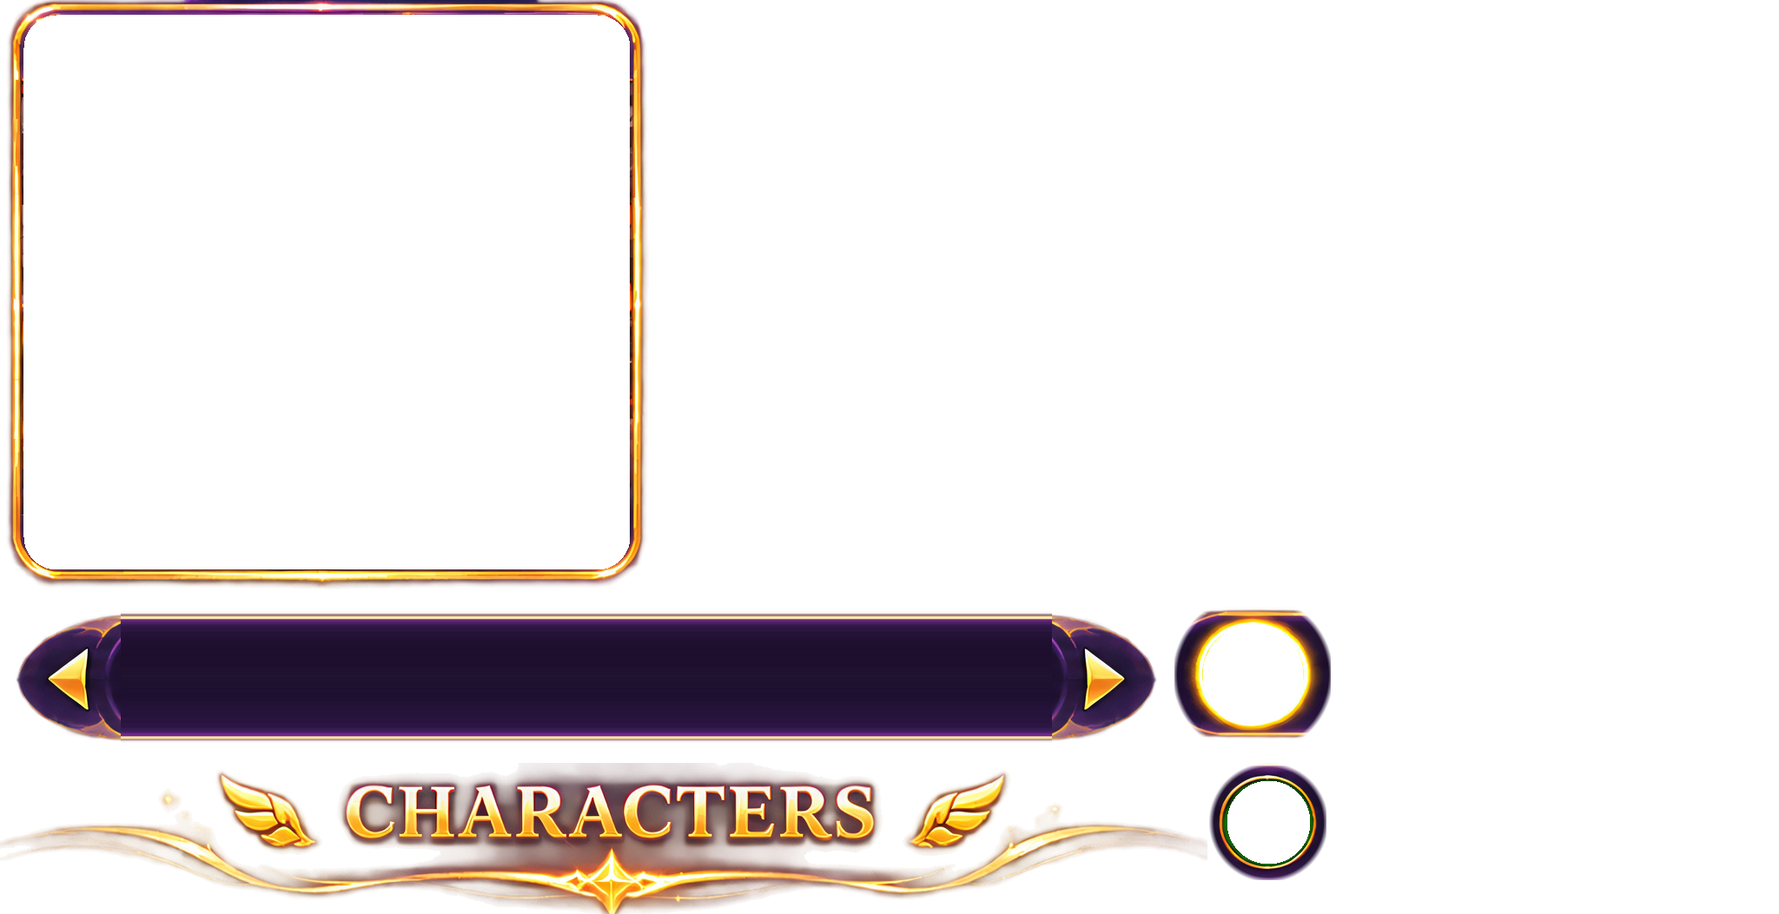
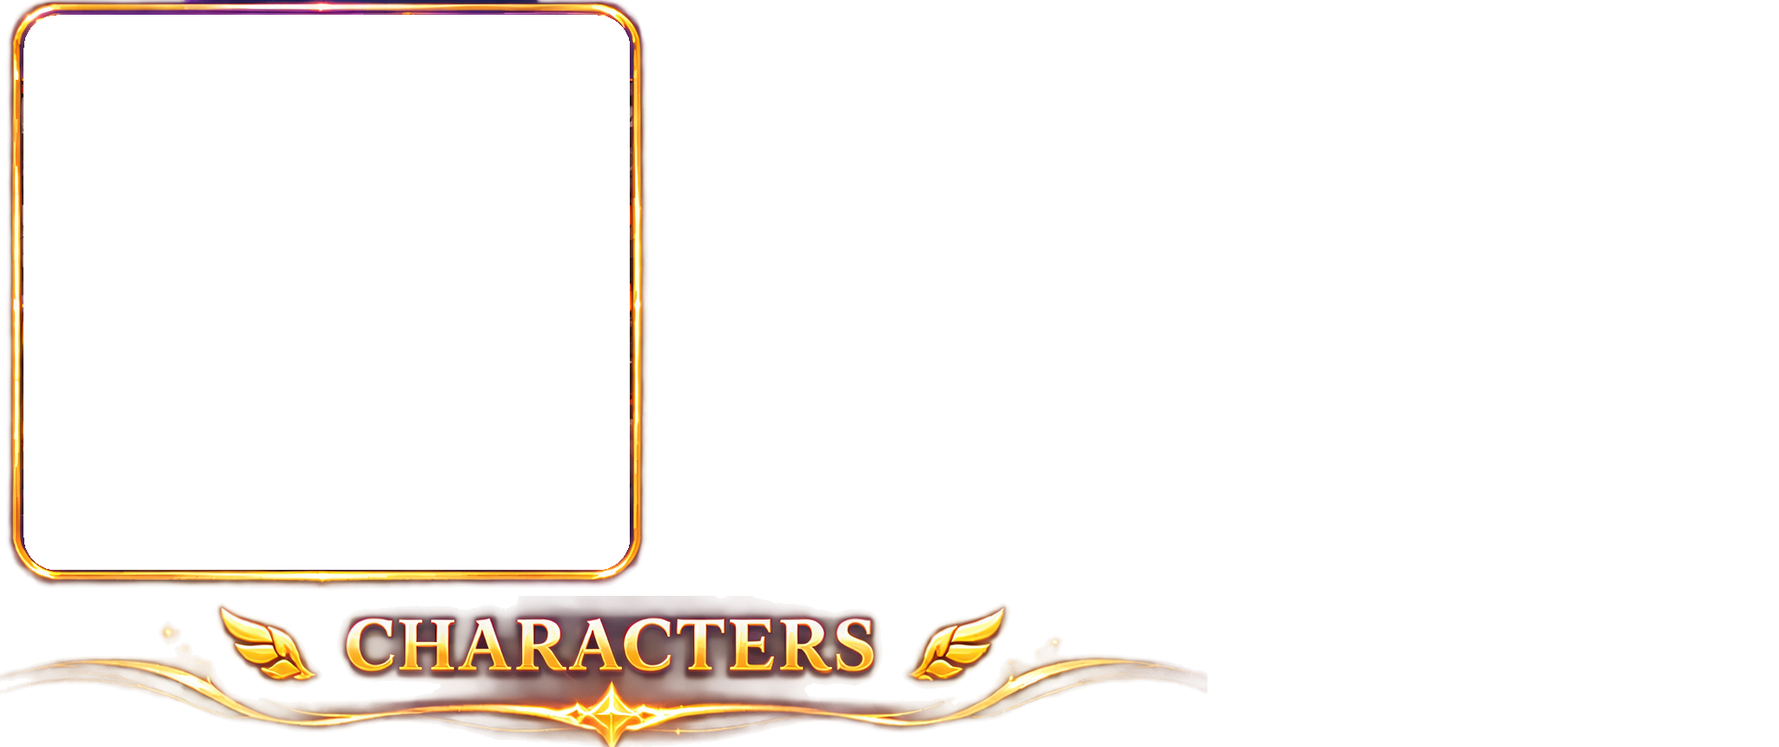
Characters: a single wing for speed, and the fairies' tray drawn in code
Speed's icon is one wing, its feathers fanning up and out. The tray is now
drawn in code (trayBar: a dark violet bar edged in gold, pointed violet
caps each with a gold arrow, the same on both sides), and the medallions'
rings too: a thin gold ring, or a thick glowing one for the fairy in view.

Claude-Session: https://claude.ai/code/session_018JTcNsoY33eUff7Lmqcu2x

diff --git a/src/render/screens/roster-screen.ts b/src/render/screens/roster-screen.ts
@@ -425,22 +425,26 @@ export function rosterMedallions(
     return designMedallions('tall', tallShift(f.h)).map(m => ({ x: f.x + m.x * f.s, y: m.y * f.s, r: m.r * f.s }));
 }
 
-/** A small gold icon for a stat, about 9 across round (x, y): wings for speed, lightning for charge, a bomb for burst,
+/** A small gold icon for a stat, about 9 across round (x, y): a wing for speed, lightning for charge, a bomb for burst,
  * a diamond for dodge. */
 function statIcon(ctx: CanvasRenderingContext2D, kind: string, x: number, y: number): void {
     ctx.fillStyle = goldGradient(ctx, y - 4, y + 4);
     ctx.beginPath();
     if (kind === 'speed') {
-        // A pair of wings: three feathers each, swept up and out from the middle.
-        for (const d of [-1, 1]) {
-            for (let f = 0; f < 3; f++) {
-                const tipX = x + d * (4.6 - f * 0.9),
-                    tipY = y - 3.2 + f * 2;
-                ctx.moveTo(x + d * 0.4, y + 0.6);
-                ctx.quadraticCurveTo(x + d * 2.2, tipY - 0.6, tipX, tipY);
-                ctx.quadraticCurveTo(x + d * 2, tipY + 1.6, x + d * 0.4, y + 1.6);
-                ctx.closePath();
-            }
+        // One wing: five feathers fanned up and out from its root at the lower left, the top ones longest.
+        const rx = x - 3.6,
+            ry = y + 3.4;
+        for (let f = 0; f < 5; f++) {
+            const a = -1.25 + f * 0.27,
+                len = 8.4 - f * 0.9,
+                tx = rx + Math.cos(a) * len,
+                ty = ry + Math.sin(a) * len,
+                nx = -Math.sin(a) * 1.15,
+                ny = Math.cos(a) * 1.15;
+            ctx.moveTo(rx, ry);
+            ctx.quadraticCurveTo(rx + (tx - rx) * 0.55 - nx, ry + (ty - ry) * 0.55 - ny, tx, ty);
+            ctx.quadraticCurveTo(rx + (tx - rx) * 0.55 + nx, ry + (ty - ry) * 0.55 + ny, rx, ry);
+            ctx.closePath();
         }
     } else if (kind === 'charge') {
         ctx.moveTo(x + 1, y - 4);
@@ -478,6 +482,88 @@ function statIcon(ctx: CanvasRenderingContext2D, kind: string, x: number, y: num
     }
     ctx.closePath();
     ctx.fill();
+}
+
+/**
+ * The fairies' tray, drawn in code into the box (x, y, w, h): a dark violet bar edged in gold top and bottom, its ends
+ * pointed violet caps each holding a gold arrow, the left one pointing left and the right one right.
+ */
+function trayBar(ctx: CanvasRenderingContext2D, x: number, y: number, w: number, h: number): void {
+    const cy = y + h / 2,
+        cap = h * 0.62;
+    /** Traces the tray's outline, `inset` in from its edge. */
+    const outline = (inset: number) => {
+        const y0 = y + inset,
+            y1 = y + h - inset,
+            x0 = x + inset * 1.6,
+            x1 = x + w - inset * 1.6;
+        ctx.beginPath();
+        ctx.moveTo(x0, cy);
+        ctx.quadraticCurveTo(x0 + cap * 0.35, y0, x0 + cap, y0);
+        ctx.lineTo(x1 - cap, y0);
+        ctx.quadraticCurveTo(x1 - cap * 0.35, y0, x1, cy);
+        ctx.quadraticCurveTo(x1 - cap * 0.35, y1, x1 - cap, y1);
+        ctx.lineTo(x0 + cap, y1);
+        ctx.quadraticCurveTo(x0 + cap * 0.35, y1, x0, cy);
+        ctx.closePath();
+    };
+    ctx.save();
+    ctx.shadowColor = 'rgba(150,80,255,0.4)';
+    ctx.shadowBlur = 40;
+    const fill = ctx.createLinearGradient(0, y, 0, y + h);
+    fill.addColorStop(0, '#3a1a6e');
+    fill.addColorStop(0.5, '#1c0b3a');
+    fill.addColorStop(1, '#2c1256');
+    ctx.fillStyle = fill;
+    outline(0);
+    ctx.fill();
+    ctx.restore();
+    // The dark middle where the fairies sit, between the two caps.
+    const band = ctx.createLinearGradient(0, y + 22, 0, y + h - 22);
+    band.addColorStop(0, '#160828');
+    band.addColorStop(0.5, '#0e0520');
+    band.addColorStop(1, '#1a0a30');
+    ctx.fillStyle = band;
+    ctx.fillRect(x + cap + 40, y + 22, w - 2 * (cap + 40), h - 44);
+    // Gold edges: the outline, and a line along the band's top and foot.
+    const gold = ctx.createLinearGradient(0, y, 0, y + h);
+    gold.addColorStop(0, '#fff4c0');
+    gold.addColorStop(0.5, '#e0a030');
+    gold.addColorStop(1, '#fff0b0');
+    ctx.strokeStyle = gold;
+    ctx.lineWidth = 6;
+    outline(3);
+    ctx.stroke();
+    ctx.lineWidth = 4;
+    ctx.beginPath();
+    ctx.moveTo(x + cap + 40, y + 22);
+    ctx.lineTo(x + w - cap - 40, y + 22);
+    ctx.moveTo(x + cap + 40, y + h - 22);
+    ctx.lineTo(x + w - cap - 40, y + h - 22);
+    ctx.stroke();
+    // The arrows.
+    for (const d of [-1, 1]) {
+        const ax = d < 0 ? x + cap * 0.7 : x + w - cap * 0.7,
+            s = h * 0.2;
+        const ag = ctx.createLinearGradient(0, cy - s, 0, cy + s);
+        ag.addColorStop(0, '#fff6d0');
+        ag.addColorStop(0.5, '#ffc23a');
+        ag.addColorStop(1, '#d97a10');
+        ctx.save();
+        ctx.shadowColor = 'rgba(255,190,70,0.7)';
+        ctx.shadowBlur = 20;
+        ctx.fillStyle = ag;
+        ctx.beginPath();
+        ctx.moveTo(ax + d * s, cy);
+        ctx.lineTo(ax - d * s * 0.6, cy - s);
+        ctx.lineTo(ax - d * s * 0.6, cy + s);
+        ctx.closePath();
+        ctx.fill();
+        ctx.restore();
+        ctx.strokeStyle = '#4a1e06';
+        ctx.lineWidth = 3;
+        ctx.stroke();
+    }
 }
 
 /** Each skill's orb colours: the glow, the ring and the glyph's light. */
@@ -656,7 +742,7 @@ export class RosterScreen {
         enter(ctx, 'panels', () => inFit(f.left, () => this.paintedPortrait(fy, locked, t)), { dx: -22 });
         enter(ctx, 'panels', () => inFit(f.right, () => demoFrame(ctx, d)), { dx: 22 });
         enter(ctx, 'panels', () => inFit(f.mid, () => this.paintedInfo(fy, locked, t)), { dx: 0, dy: 10 });
-        enter(ctx, 'buttons', () => inFit(f.tray, () => piece('tray', MOCK.tray, 1.2)));
+        enter(ctx, 'buttons', () => inFit(f.tray, () => trayBar(ctx, MOCK.tray[0], MOCK.tray[1] + 30, MOCK.tray[2], MOCK.tray[3] - 50)));
         const m = MOCK.meds;
         FAIRIES.forEach((other, i) =>
             enter(
@@ -882,8 +968,29 @@ export class RosterScreen {
         ctx.restore();
         if (on) {
             // Its ring holds still: no shine sweeping round it.
-            KIT.draw(ctx, 'medOn', x - 120, y - 122, 240, 240);
-        } else KIT.draw(ctx, 'medOff', x - 90, y - 90, 180, 180);
+            // A thick gold ring that glows.
+            ctx.save();
+            ctx.shadowColor = 'rgba(255,200,80,0.9)';
+            ctx.shadowBlur = 40;
+            ctx.strokeStyle = goldGradient(ctx, y - r, y + r);
+            ctx.lineWidth = 12;
+            ctx.beginPath();
+            ctx.arc(x, y, r + 6, 0, Math.PI * 2);
+            ctx.stroke();
+            ctx.restore();
+            ctx.strokeStyle = 'rgba(255,250,220,0.9)';
+            ctx.lineWidth = 3;
+            ctx.beginPath();
+            ctx.arc(x, y, r + 10, 0, Math.PI * 2);
+            ctx.stroke();
+        } else {
+            // A thin gold ring.
+            ctx.strokeStyle = goldGradient(ctx, y - r, y + r);
+            ctx.lineWidth = 6;
+            ctx.beginPath();
+            ctx.arc(x, y, r + 3, 0, Math.PI * 2);
+            ctx.stroke();
+        }
     }
 
     /** The PREVIEW button in the corner of her portrait (phones only), glowing gently. */

diff --git a/src/data/roster-kit.ts b/src/data/roster-kit.ts
@@ -3,54 +3,24 @@ import type { KitPiece } from '@/types';
 
 /** Where each of the roster screen's painted pieces sits in `assets/ui/roster-kit.png`. */
 export const ROSTER_KIT: Record<string, KitPiece> = {
-    demo: {
-        x: 0,
-        y: 0,
-        w: 752,
-        h: 684,
-        bx: 0,
-        by: 0,
-        bw: 752,
-        bh: 684,
+    'demo': {
+        'x': 0,
+        'y': 0,
+        'w': 752,
+        'h': 684,
+        'bx': 0,
+        'by': 0,
+        'bw': 752,
+        'bh': 684
     },
-    tray: {
-        x: 0,
-        y: 686,
-        w: 1350,
-        h: 191,
-        bx: 0,
-        by: 0,
-        bw: 1350,
-        bh: 191,
-    },
-    medOn: {
-        x: 1352,
-        y: 686,
-        w: 180,
-        h: 180,
-        bx: 0,
-        by: 0,
-        bw: 180,
-        bh: 180,
-    },
-    title: {
-        x: 0,
-        y: 879,
-        w: 1390,
-        h: 174,
-        bx: 0,
-        by: 0,
-        bw: 1390,
-        bh: 174,
-    },
-    medOff: {
-        x: 1392,
-        y: 879,
-        w: 135,
-        h: 135,
-        bx: 0,
-        by: 0,
-        bw: 135,
-        bh: 135,
-    },
+    'title': {
+        'x': 0,
+        'y': 686,
+        'w': 1390,
+        'h': 174,
+        'bx': 0,
+        'by': 0,
+        'bw': 1390,
+        'bh': 174
+    }
 };

diff --git a/tools/extract-screen-kit.py b/tools/extract-screen-kit.py
@@ -130,9 +130,6 @@ SCREENS = {
     'roster': {
         'title': ('roster', (846, 0, 2698, 232), []),
         'demo': ('roster', (2520, 218, 3523, 1130), [('rrect', 2556, 241, 3487, 1093, 50)]),
-        'tray': ('roster', (900, 1095, 2700, 1350), [(1085, 1095, 2520, 1345, 1497), ('mirrorleft', 186)]),
-        'medOn': ('roster', (1080, 1100, 1320, 1340), [('circle', 1200, 1222, 78), ('keep', 1200, 1222, 116, None)]),
-        'medOff': ('roster', (1311, 1127, 1491, 1307), [('circle', 1401, 1217, 64), ('keep', 1401, 1217, 84, None)]),
     },
     'maps': {
         'title': ('maps', (436, 20, 2083, 240), []),

diff --git a/CLAUDE.md b/CLAUDE.md
@@ -57,7 +57,7 @@ Do each feature on its own branch (`feature/<name>` or `fix/<name>`) and open a 
 - Keep per-frame drawing cheap: never `shadowBlur` on things there can be many of (it costs about a millisecond each on a big canvas). Fireballs other than Reverses are drawn from cached sprites (`flameSprite`, `ballSprite` in `entities/attacks.ts`, painted once at radius 1 and scaled); glows are cached sprites too.
 - Behind every meadow is the endless scenery of its map, [src/render/scenery/scenery.ts](src/render/scenery/scenery.ts) (`SkyScenery`, drawn first in `Renderer.field()` from `Field.sceneSeed`, `Field.time` and `Field.mapId`), seen from above at an angle: on an `'islands'` map (Forest, Space) islands with a flat top and a cliff face below float over the clouds (Space's asteroids over nebulae and a twinkling star field, `MapTheme.stars`); on a `'ground'` map (Cave, Desert, Castle, Volcano, whose `'lava'` ground is basalt split by rivers and pools of lava, and Beach, whose `'shore'` ground is sandy islands in the sea, `shoreLand`, with props drawn only on land) solid terrain, painted from world position in seamless bands (`paintGround`: a height field lit from the upper left, shaded through a five-tone ramp with 4×4 ordered dithering), has big props standing on it (`paintProp`) under drifting haze and cloud shadows. Each map's `mood` adds a colour tint, slow light rays, a flock of birds or bats crossing now and then, and giant faint silhouettes passing at the sides; crystals, glowing mushrooms and torches pulse with light (cached glow sprites). The maps are [src/data/maps.ts](src/data/maps.ts) (`MAPS`: Forest, Cave, Desert, Castle, Beach, Volcano, Space), each a `MapTheme` of colours, ground and cliff styles, and weighted props; after the fairies are picked a local match goes to the `mapselect` phase ([map-screen.ts](src/render/screens/map-screen.ts): Random plus a card per map in rows of four (two columns under Random on a phone), each scrolling its scenery live, a locked stage padlocked with the trophies it needs), `Game.beginMatch` fixes `matchMap` (Random rolls one of the open stages per match), online rounds use `mapForSeed(seed)` so both sides agree, and `?map=<id>` forces one. Three parallax layers (far, mid, near) cut into cells of world height whose contents come from (seed, layer, cell) alone, so nothing pops and it never runs out; island, cloud and spire sprites are painted pixel by pixel once ([scenery/paint.ts](src/render/scenery/paint.ts)), at most `PAINT_BUDGET` a frame and ahead of the view, and dropped once long unused; waterfalls, rope bridges and motes are drawn live; near islands keep to the sides and a veil keeps play readable. Painted images listed in [src/data/scenery.ts](src/data/scenery.ts) (`SCENERY_STRIPS`, bottom to top) replace the far layer as one continuous strip. The two meadows look into one world: `Renderer.field` passes each meadow's side and `C.GAP`, so the right-hand meadow sees the stretch of world `GAP` across from the left-hand one (each meadow-wide lane has its own contents, ground is painted from world x via `paintGround`'s `x0`, clouds wrap around the whole world), and terrain, islands and clouds run on from one meadow into the other behind the console. It's decoration only: nothing in it touches the simulation.
 - The lobby, Characters, Maps, Profile, match details and Settings share one look, [screens/ornate.ts](src/render/screens/ornate.ts): the painted night behind them (`drawNight`: `assets/backgrounds/lobby-lake.jpg` for the lobby, `menu-night.jpg`, the castle on its cliff, for the rest, sources in `assets/source/backgrounds/`; drawn in code until the picture has loaded), a winged gold heading (`ornateScreen`/`ornateTitle`, a little right of centre on a phone, clear of the Back tab), gold-framed panels and plaques (`ornatePanel`, `pointed`, `goldFrame`, `crest`, `gem`), round icon orbs (`iconOrb`) and the key hints along the bottom drawn as keycaps (`keyHints`). The Settings panel (`#settings`) is styled to match in `index.template.html` (a gold-framed card, gold pill tabs with icons, framed rows, gold sliders with a gem knob). The title and the select screens keep their heading bar, `drawTopBar` in `screens/top-bar.ts` (taller on a phone, where the page's Back tab sits in it).
-- The lobby's plates, buttons and panels are painted: [screens/kit.ts](src/render/screens/kit.ts) draws pieces of `assets/ui/lobby-kit.png` (`drawKit`, keeping a piece's ends and stretching its middle; `drawKit9`, nine slices), cut at 2× by [tools/extract-ui-kit.py](tools/extract-ui-kit.py) from the UI sheet `assets/source/ui/lobby-kit-vector.png` (the painted kit upscaled 4×, kept at 2×, 3548×1774, on near-black), so they stay sharp on high-density screens: the tool keys the black away (solid inside each piece's bright closed border, a glow as opaque as it is bright), fills the sheet's sample text from the plate's clean inside, cuts the bar as two halves (`barLeft`, `barRight`) that end flush against PLAY as on the sheet, and lays PLAY out by its gold face (its frame and crest stand out round the lobby's box for it, sized from the bar's height), and writes the layout to `src/data/lobby-kit.ts` (don't hand-edit either; numbers in `lobby-screen.ts` that place things on a piece, such as the avatar in the plate's ring, are in that sheet's 2× pixels). The game writes its own text over them; until the picture has loaded (`kitReady`) `lobby-screen.ts` draws them in code. They shine: the tool also writes `assets/ui/lobby-kit-gold.png`, the atlas's gold alone, and `kitGlint`/`kitGlint9` sweep a band of light across a piece's gold every few seconds (painted into a scratch canvas, laid over with `'lighter'`), each piece on its own beat, PLAY more often while it has the cursor; the painted stars (the plate's corner, the bar's points, PLAY's crest) twinkle (`twinkle`, placed by `kitPoint`). On a phone the bar along the bottom stays drawn in code (the painted halves are too long for it) with the painted orbs. The sheet's foot holds pieces shared by the other menu screens (panels, gold/violet/lilac/blue pills, the dark capsule, the starred divider, gold wings and corners, toggles, checkboxes, sparkles), which [screens/kit-ui.ts](src/render/screens/kit-ui.ts) turns into `kitPanel`, `kitPill`, `kitTab`, `kitButton`, `kitTitle` (the winged heading `ornateTitle` draws once the kit has loaded), `kitDivider`, `kitHintBar` and `kitCorners`; Profile and match details are built from them on a phone, keeping their code-drawn look until the picture loads. In landscape those two, Characters, Maps, fairy select and map select are drawn from their own painted mockups instead: [tools/extract-screen-kit.py](tools/extract-screen-kit.py) cuts each screen group's pieces (`profile`, `match`, `roster`, `maps`, `select`, `mapselect`; a piece can have a rounded or any-shaped window cut through it for a portrait, a live meadow or a card's live scenery, or be lifted off its tray as a disc; the select mockups' red fringe is taken off as they're cut) out of the transparent mockups in `assets/source/ui/screens/` (stored at 1.5×, pieces given in the mockup's 2× pixels, sample text wiped, holes cut where the game draws a fairy) into `assets/ui/<group>-kit.png`, its gold, and `src/data/<group>-kit.ts`; `PieceAtlas` (kit.ts) draws and glints them, and the screen lays them out in the mockup's 2× pixels under `mockFit`/`mockBox` (kit-ui.ts), which fit the mockup to the view, writing its own text over them; `drawPlayerCard` (profile-screen.ts) is the painted player card both share. Profile's two tabs are drawn in code as vector capsules (`paintedTab`, with `tabBars`/`tabSwords` for their icons), the same shape on both tabs, only the gold and violet swapping; its Match History list fills the same area as the Record's tiles and fairies (its row pieces spread to that width). Painted Characters isn't fitted as one block: `rosterFits` gives each part its own place at one scale (heading against the top, portrait and demo against the left and right edges, the tray along the bottom, the blurb, stats and skills centred between), so it fills a wide screen; its portrait's frame, crest and name plaque are drawn in code (`paintedPortrait`, its frame `goldRoundFrame`), the picture clipped to the frame's inside; its stat panels and skill rows are drawn in code too (`glassPanel`), with their icons (`statIcon`: wings, lightning, a bomb, a diamond) and the skills' glowing orbs (`skillOrb`: a starburst, a sun, a heart, a lotus). The demo windows (Characters, Maps) are narrowed to the meadow's shape (`paintedDemo`), the live meadow drawn in view units (`drawDemoMeadow`, clipped to the frame's rounding) under the same code-drawn gold frame (`demoFrame`); the Maps tray's stage discs and the stage plate's icons are the mockup's own pictures, in `MAPS` order.
+- The lobby's plates, buttons and panels are painted: [screens/kit.ts](src/render/screens/kit.ts) draws pieces of `assets/ui/lobby-kit.png` (`drawKit`, keeping a piece's ends and stretching its middle; `drawKit9`, nine slices), cut at 2× by [tools/extract-ui-kit.py](tools/extract-ui-kit.py) from the UI sheet `assets/source/ui/lobby-kit-vector.png` (the painted kit upscaled 4×, kept at 2×, 3548×1774, on near-black), so they stay sharp on high-density screens: the tool keys the black away (solid inside each piece's bright closed border, a glow as opaque as it is bright), fills the sheet's sample text from the plate's clean inside, cuts the bar as two halves (`barLeft`, `barRight`) that end flush against PLAY as on the sheet, and lays PLAY out by its gold face (its frame and crest stand out round the lobby's box for it, sized from the bar's height), and writes the layout to `src/data/lobby-kit.ts` (don't hand-edit either; numbers in `lobby-screen.ts` that place things on a piece, such as the avatar in the plate's ring, are in that sheet's 2× pixels). The game writes its own text over them; until the picture has loaded (`kitReady`) `lobby-screen.ts` draws them in code. They shine: the tool also writes `assets/ui/lobby-kit-gold.png`, the atlas's gold alone, and `kitGlint`/`kitGlint9` sweep a band of light across a piece's gold every few seconds (painted into a scratch canvas, laid over with `'lighter'`), each piece on its own beat, PLAY more often while it has the cursor; the painted stars (the plate's corner, the bar's points, PLAY's crest) twinkle (`twinkle`, placed by `kitPoint`). On a phone the bar along the bottom stays drawn in code (the painted halves are too long for it) with the painted orbs. The sheet's foot holds pieces shared by the other menu screens (panels, gold/violet/lilac/blue pills, the dark capsule, the starred divider, gold wings and corners, toggles, checkboxes, sparkles), which [screens/kit-ui.ts](src/render/screens/kit-ui.ts) turns into `kitPanel`, `kitPill`, `kitTab`, `kitButton`, `kitTitle` (the winged heading `ornateTitle` draws once the kit has loaded), `kitDivider`, `kitHintBar` and `kitCorners`; Profile and match details are built from them on a phone, keeping their code-drawn look until the picture loads. In landscape those two, Characters, Maps, fairy select and map select are drawn from their own painted mockups instead: [tools/extract-screen-kit.py](tools/extract-screen-kit.py) cuts each screen group's pieces (`profile`, `match`, `roster`, `maps`, `select`, `mapselect`; a piece can have a rounded or any-shaped window cut through it for a portrait, a live meadow or a card's live scenery, or be lifted off its tray as a disc; the select mockups' red fringe is taken off as they're cut) out of the transparent mockups in `assets/source/ui/screens/` (stored at 1.5×, pieces given in the mockup's 2× pixels, sample text wiped, holes cut where the game draws a fairy) into `assets/ui/<group>-kit.png`, its gold, and `src/data/<group>-kit.ts`; `PieceAtlas` (kit.ts) draws and glints them, and the screen lays them out in the mockup's 2× pixels under `mockFit`/`mockBox` (kit-ui.ts), which fit the mockup to the view, writing its own text over them; `drawPlayerCard` (profile-screen.ts) is the painted player card both share. Profile's two tabs are drawn in code as vector capsules (`paintedTab`, with `tabBars`/`tabSwords` for their icons), the same shape on both tabs, only the gold and violet swapping; its Match History list fills the same area as the Record's tiles and fairies (its row pieces spread to that width). Painted Characters isn't fitted as one block: `rosterFits` gives each part its own place at one scale (heading against the top, portrait and demo against the left and right edges, the tray along the bottom, the blurb, stats and skills centred between), so it fills a wide screen; its portrait's frame, crest and name plaque are drawn in code (`paintedPortrait`, its frame `goldRoundFrame`), the picture clipped to the frame's inside; its stat panels and skill rows are drawn in code too (`glassPanel`), with their icons (`statIcon`: a wing, lightning, a bomb, a diamond) and the skills' glowing orbs (`skillOrb`: a starburst, a sun, a heart, a lotus); the fairies' tray (`trayBar`, gold arrows at both ends) and the medallions' gold rings are drawn in code as well. The demo windows (Characters, Maps) are narrowed to the meadow's shape (`paintedDemo`), the live meadow drawn in view units (`drawDemoMeadow`, clipped to the frame's rounding) under the same code-drawn gold frame (`demoFrame`); the Maps tray's stage discs and the stage plate's icons are the mockup's own pictures, in `MAPS` order.
 - A map can have its own monsters: [src/data/monsters.ts](src/data/monsters.ts) (`monstersFor(mapId)`) gives its `MonsterSheet`, and `Renderer.critter` then draws its critters with `drawMonster` (`entities/critters.ts`) instead of puffs, beetles and spinners (the moonseed stays itself). On the Forest a formation of plain critters is slimes or leaf sprites, shelled ones are mushroom buddies, spinners are bees and big ones tree spirits; in the Cave plain ones are cave slimes or wisps, shelled ones crystal bugs, spinners bats and big ones cave mushrooms; in the Desert plain ones are sand slimes or sand foxes, shelled ones desert beetles, spinners scorpions and big ones cactus buds; in the Castle plain ones are crown slimes or will-o'-wisps, shelled ones castle knights, spinners bats and big ones magic books; on the Beach plain ones are sea slimes or starfish, shelled ones pearl clams, spinners seagulls and big ones beach crabs; on the Volcano plain ones are lava slimes or flame wisps, shelled ones lava crabs, spinners fire bats and big ones magma golems; in Space plain ones are galaxy slimes or void octopuses, shelled ones meteor turtles, spinners comet cats and big ones astro robots. `monsterLook` works out which monster and how far it has appeared from position alone (no state, so a mirrored online meadow looks the same): coming in over the top line (`CRITTER_TOP`) or a side wall it plays the sheet's appear frames under the sparkle overlay, then idles, talking or beaming now and then. A gem in the puff colours shows the shots a tougher one takes, and dew bubbles and shells are rings around it. Every map has a sheet; one without would keep the code-drawn critters.
 - The HUD, the title and select screens (`screens/`), the backdrop and sprite animation each have their own module. Colours and fonts are in `theme.ts`.
 
